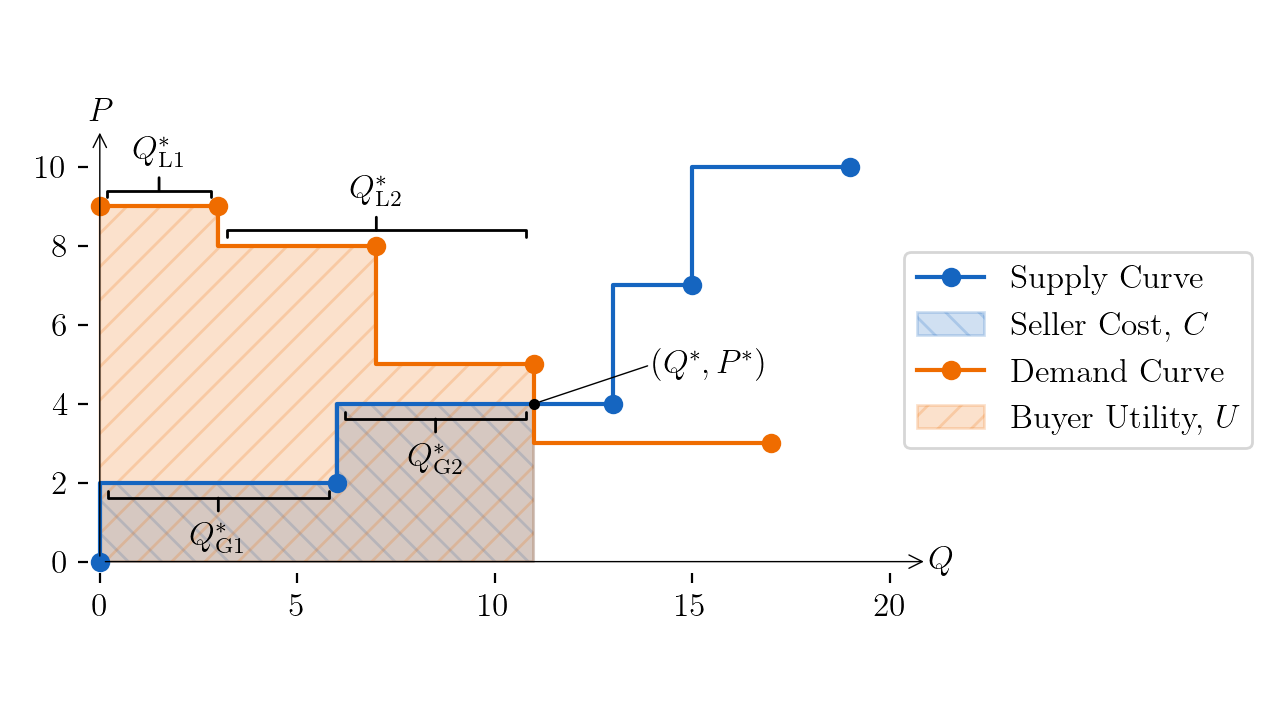
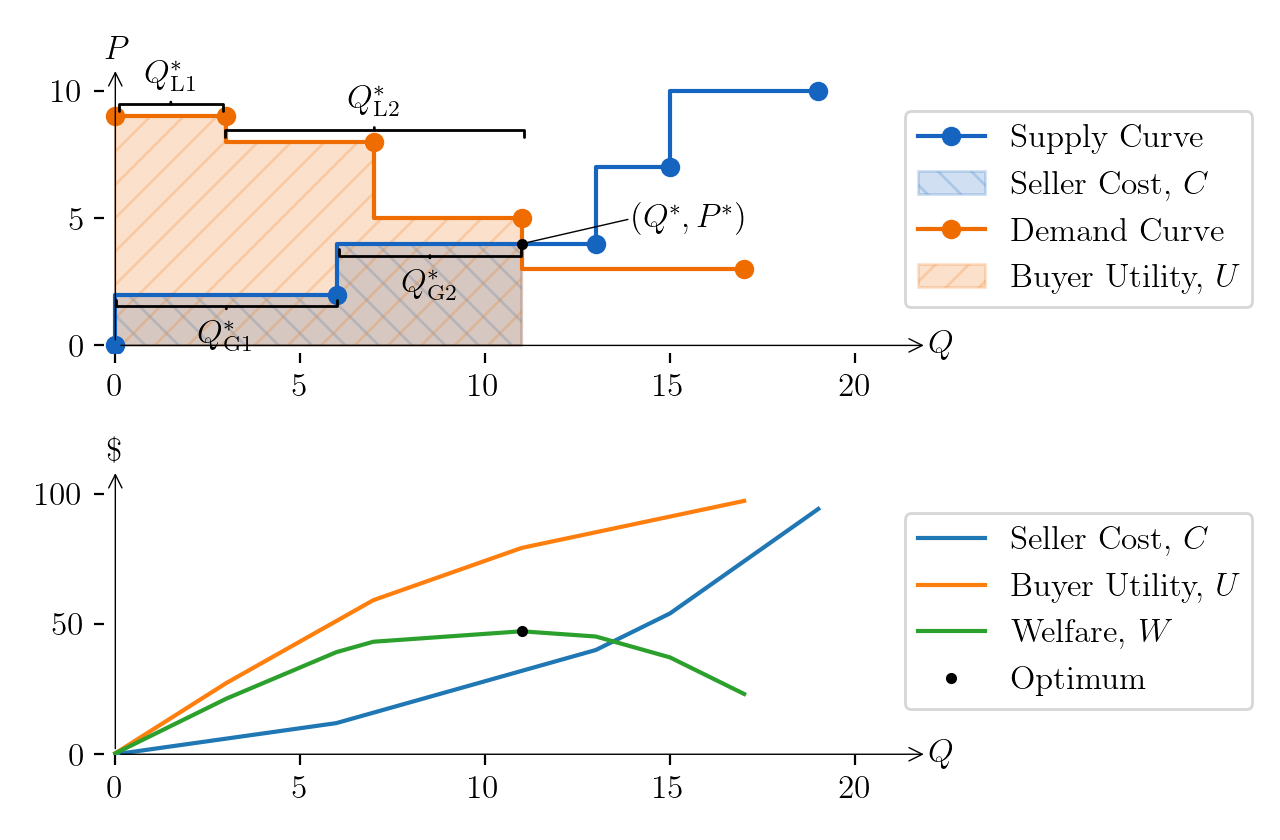
add cost, utility, and welfare curves with optimum

diff --git a/2_supply_and_demand_of_electricity.md b/2_supply_and_demand_of_electricity.md
@@ -16,7 +16,7 @@ A given café is willing to sell espresso at or above a certain price, and a giv
 
 ## The market clearing process
 
-The above principles are true not just for a neighborhood of cafés but for any capitalist market. These basic tenets of economics are the principles of supply and demand. They apply wherever a quantity $Q$ of a good is exchanged at a price $P$ per unit of that good.
+The above principles are true not just for a neighborhood of cafés but for any capitalist market. These basic tenets of economics are the principles of supply and demand. They apply wherever a quantity $Q$ of a particular good is exchanged at a price $P$. $Q$ is measured in goods per hour, and $P$ is measured in dollars (or any other currency) per good.
 
 The allocation of buyers to sellers (customers to cafés) is a process called *clearing the market*. This determines the quantity of goods that gets exchanged in the market, $Q^*$, and at what price, $P^*$. This price is known as the *market price* or *market-clearing price*. Sellers who charge a low price are able to produce at a low cost and do not price-gouge. A capitalist market rewards such sellers, giving them priority over other, less efficient ones. At the same time, a capitalist market rewards buyers who are willing to pay a high price, giving them priority over other buyers who don't value the product as much. It follows that we can model the market clearing process by allocating an increasing quantity of goods to the buyers and sellers, starting with the buyers who are willing to pay the most and the sellers who are willing to charge the least, until the buying price equals the selling price.
 
@@ -47,7 +47,7 @@ Thus, the electricity market must be administered by a regulatory body&mdash;the
 
 ## Bids to buy and offers to sell power
 
-Loads and generators submit bids to buy power and offers to sell power, respectively. Bids and offers are known in general as market submissions. Each submission includes a list of price-quantity pairs. In a given price-quantity pair, the quantity is the maximum quantity of power that a generator is willing to sell, or that a load is willing to buy, at the corresponding price in the pair. The price is measured in units of currency per MWh (we will use dollars as our unit of currency), and the quantity is measured in MW. For an offer, the price must monotonically increase as the quantity increases, and for a bid, the price must monotonically decrease as the quantity increases.
+Loads and generators submit bids to buy power and offers to sell power, respectively. Bids and offers are known in general as market submissions. Each submission includes a list of price-quantity pairs. In a given price-quantity pair, the quantity is the maximum quantity of power that a generator is willing to sell, or that a load is willing to buy, at the corresponding price in the pair. The price is measured in dollars per MWh, and the quantity is measured in MW. For an offer, the price must monotonically increase as the quantity increases, and for a bid, the price must monotonically decrease as the quantity increases.
 
 If these sound similar to supply and demand curves, it's because they are! In an electricity market with one generator and one load, the generator's $(P_\mathrm{G}, Q_\mathrm{G})$ pairs would define the market's supply curve and the load's $(P_\mathrm{L}, Q_\mathrm{L})$ pairs would define the market's demand curve. The two curves' intersection determines the quantity $Q^*$ of power that will be delivered at the market-clearing price $P^*$, which maximizes $U - C$.
 
